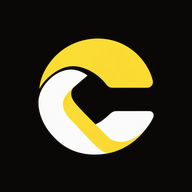
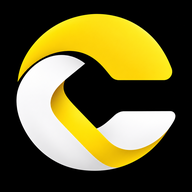
Redes sociais, icone novo e fotos que encolhem

diff --git a/index.html b/index.html
@@ -5,22 +5,22 @@
     <meta name="viewport" content="width=device-width, initial-scale=1.0, maximum-scale=1.0, user-scalable=no, viewport-fit=cover" />
 
     <!-- Favicon -->
-    <link rel="icon" type="image/png" href="/convecta-icon.png" />
+    <link rel="icon" type="image/png" href="/convecta-icon.png?v=2" />
 
     <!-- PWA Manifest -->
     <link rel="manifest" href="/manifest.json" />
 
     <!-- iOS home screen icon -->
-    <link rel="apple-touch-icon" href="/icon-180.png" />
+    <link rel="apple-touch-icon" href="/icon-180.png?v=2" />
     <meta name="apple-mobile-web-app-capable" content="yes" />
     <meta name="apple-mobile-web-app-status-bar-style" content="black-translucent" />
-    <meta name="apple-mobile-web-app-title" content="CONVECTA - GESTÃO ONLINE" />
+    <meta name="apple-mobile-web-app-title" content="Gestão Convecta" />
 
     <!-- Android / Chrome -->
     <meta name="theme-color" content="#0A0807" />
     <meta name="mobile-web-app-capable" content="yes" />
 
-    <title>CONVECTA - GESTÃO ONLINE</title>
+    <title>Gestão Convecta</title>
   </head>
   <body>
     <div id="root"></div>
